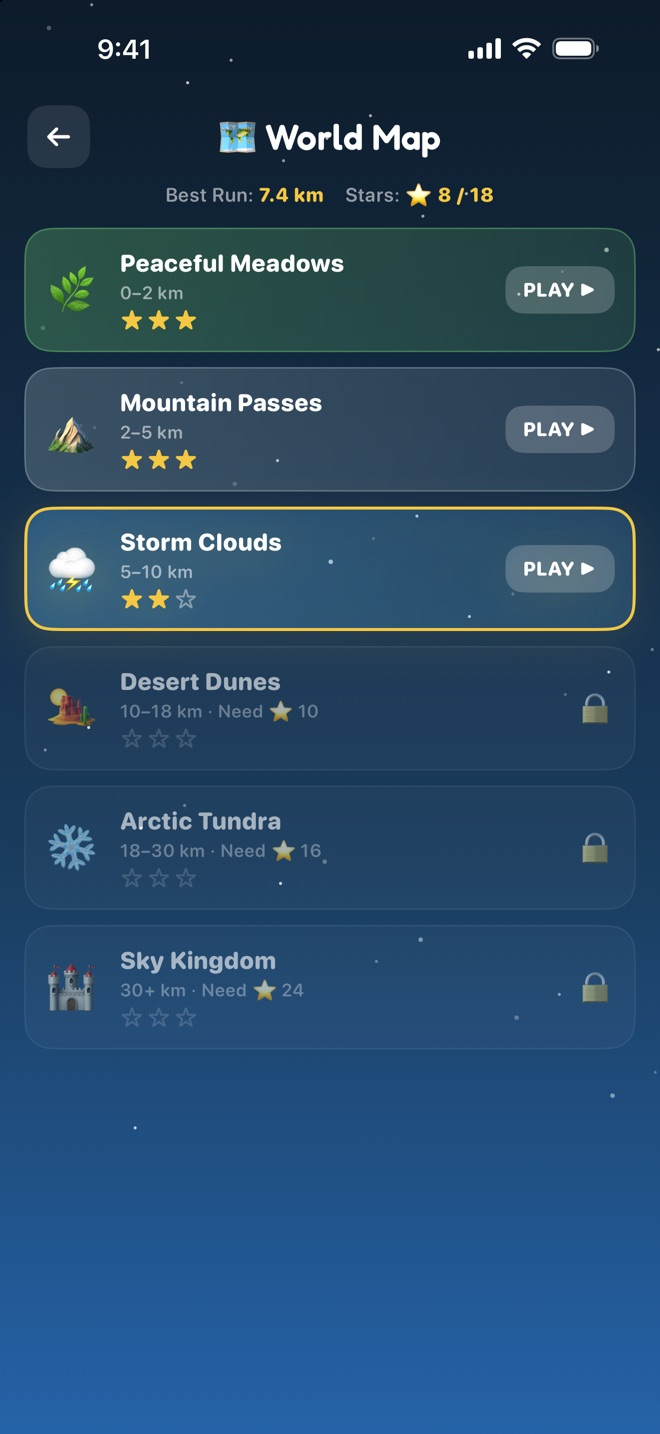
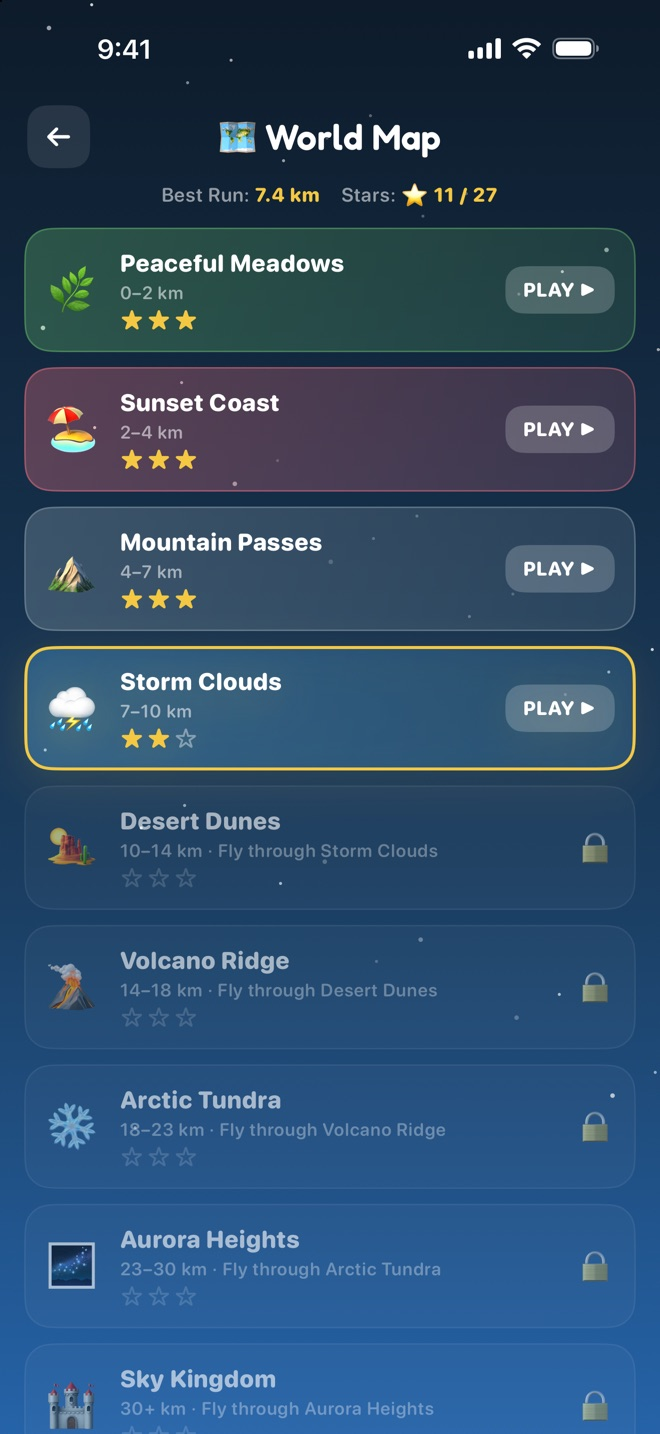
Sky Voyage iOS: nine biomes, Game Center, power-up timers
- Page copy, FAQ and changelog cover the three new biomes (Sunset Coast,
  Volcano Ridge, Aurora Heights), Game Center leaderboards and
  achievements, and power-up countdowns
- Privacy policy: the iPhone version now optionally uses Game Center
  (handled by Apple; nothing is sent when signed out)
- Fresh iPhone screenshots

diff --git a/src/content/apps/skyvoyage.md b/src/content/apps/skyvoyage.md
@@ -10,14 +10,14 @@ screenshots:
   - src: /apps/skyvoyage/screenshot-ios-1.jpg
     alt: "Main menu with your balloon ready for take-off"
   - src: /apps/skyvoyage/screenshot-ios-2.jpg
-    alt: "Steering through the Mountain Passes past birds and a wind turbine"
+    alt: "Steering past kites and seagulls on the Sunset Coast"
   - src: /apps/skyvoyage/screenshot-ios-3.jpg
-    alt: "Dodging lightning and hail in the Storm Clouds"
+    alt: "Dodging falling embers over Volcano Ridge"
   - src: /apps/skyvoyage/screenshot-ios-4.jpg
     alt: "Customising your balloon in the Hangar"
   - src: /apps/skyvoyage/screenshot-ios-5.jpg
-    alt: "World Map with stars earned in each zone"
-techStack: [Swift, SwiftUI, SwiftUI Canvas rendering, Kotlin (Android), Custom 2D engine]
+    alt: "World Map with all nine zones and the stars earned in each"
+techStack: [Swift, SwiftUI, SwiftUI Canvas rendering, GameKit (Game Center), Kotlin (Android), Custom 2D engine]
 supportEmail: hello@sagarchandagarwal.com
 faq:
   - q: "Is Sky Voyage free? Are there ads?"
@@ -25,11 +25,15 @@ faq:
   - q: "Is it on iPhone?"
     a: "Yes — Sky Voyage for iPhone is coming to the App Store soon. The Android version is in closed beta and isn't publicly available right now."
   - q: "Do I need an internet connection to play?"
-    a: "No. The whole game runs offline. On iPhone there's no sign-in and no network access at all. On Android, signing in with Google Play Games is optional and only powers leaderboards and cloud saves."
+    a: "No. The whole game runs offline. Game Center on iPhone and Google Play Games on Android are optional and only power leaderboards and achievements (plus cloud saves on Android)."
+  - q: "Are there leaderboards?"
+    a: "Yes. On iPhone, Sky Voyage uses Game Center: global leaderboards for farthest flight and high score, and 15 achievements. Open them from Ranks in the game."
   - q: "How do I steer the balloon?"
     a: "Drag anywhere on the screen and the balloon glides toward your finger. Drag up to fire the burner and climb, drag down to vent and drop, or let go to drift slowly down."
   - q: "Why does my fuel run out?"
     a: "Only the burner uses fuel — climbing and holding your height. Sliding sideways or down is free. Grab Fuel Tanks to refill; one always appears when you're running low."
+  - q: "How long do power-ups last?"
+    a: "Each active power-up shows a countdown ring above your fuel gauge: Shield 12 s (or until it blocks a hit), Coin Magnet 8 s, Speed Boost 5 s and 2× Score 15 s. The ring blinks in the last two seconds."
   - q: "What happens if I touch the ground?"
     a: "You get a moment to lift off. The screen glows red and warns you — drag up quickly to save the run."
   - q: "How big is the download?"
@@ -40,7 +44,9 @@ changelog:
     notes:
       - "First iPhone release, built natively in Swift and SwiftUI"
       - "Smooth, forgiving balloon physics: burner heat, fuel used only for climbing, gentle drift"
-      - "Six biomes from Peaceful Meadows to the Sky Kingdom, with a fade between zones"
+      - "Nine biomes, including the new Sunset Coast, Volcano Ridge and Aurora Heights"
+      - "Game Center leaderboards and 15 achievements"
+      - "Countdown timers for every active power-up"
       - "Hangar with envelopes, baskets, crew and flags; Shop boosts you can use mid-flight"
       - "Ranks screen with 12 achievements, levels and gem rewards"
   - version: "1.0.0 Android (closed beta)"
@@ -54,7 +60,7 @@ changelog:
 
 ## What it is
 
-Sky Voyage is a calm arcade endless flyer. Pilot a hot air balloon up through six biomes — meadows, mountain passes, storm clouds, desert dunes, arctic tundra and the Sky Kingdom — dodging birds, lightning, wind turbines and rival balloons while you watch your burner fuel.
+Sky Voyage is a calm arcade endless flyer. Pilot a hot air balloon up through nine biomes — meadows, the sunset coast, mountain passes, storm clouds, desert dunes, volcano ridge, arctic tundra, aurora heights and the Sky Kingdom — dodging birds, kites, lightning, embers and rival balloons while you watch your burner fuel. (The Android beta has six biomes.)
 
 It's built the old-school way, on hand-written 2D engines: native Swift and SwiftUI on iPhone, Kotlin on Android. Tiny downloads and zero ads, purchases or trackers. The iPhone version is coming soon to the App Store; the Android version is in closed beta and not publicly available right now.
 
@@ -62,6 +68,7 @@ It's built the old-school way, on hand-written 2D engines: native Swift and Swif
 
 1. **Fly.** Drag anywhere and the balloon glides toward your finger. Drag up to fire the burner and climb, drag down to vent, or let go to drift.
 2. **Mind the burner.** Only climbing burns fuel. Collect Fuel Tanks to keep going, and if the basket touches the ground you get a moment to lift off.
-3. **Survive the biomes.** Each zone brings new hazards — hail, nets, spike clouds, lightning — and its own wind. Earn stars to unlock zones on the World Map.
-4. **Grab power-ups.** Fuel Tanks, Shield Bubbles, Speed Boosts, Coin Magnets and 2× Score keep a good run alive, and the ⚡ button slows time when it gets tight.
-5. **Make it yours.** Spend the coins and gems you earn in the Hangar on envelopes, baskets, crew and flags — some with fuel or coin bonuses — and track your levels and achievements in Ranks.
+3. **Survive the biomes.** Each zone brings new hazards — kites, hail, nets, embers, ice crystals, lightning — and its own wind. Fly through a zone to unlock the next one as a starting point on the World Map.
+4. **Grab power-ups.** Fuel Tanks, Shield Bubbles, Speed Boosts, Coin Magnets and 2× Score keep a good run alive — each shows a countdown — and the ⚡ button slows time when it gets tight.
+5. **Make it yours.** Spend the coins and gems you earn in the Hangar on envelopes, baskets, crew and flags — some with fuel or coin bonuses.
+6. **Compete.** Track your levels and achievements in Ranks, and compare flights on Game Center leaderboards.

diff --git a/src/content/privacy/skyvoyage.md b/src/content/privacy/skyvoyage.md
@@ -17,7 +17,9 @@ Your player profile — pilot name, progress, coins, gems, unlocked cosmetics, z
 
 ## Sky Voyage for iPhone
 
-The iPhone version makes no network connections at all. It uses no third-party services or SDKs, does not use Game Center, and requests no permissions — no location, camera, contacts, photos, tracking or notifications. Haptic feedback can be turned off in Settings.
+The iPhone version uses no third-party services or SDKs and makes no network connections of its own. It requests no permissions — no location, camera, contacts, photos, tracking or notifications. Haptic feedback can be turned off in Settings.
+
+**Game Center (optional).** If you're signed in to Game Center on your device, Sky Voyage sends your best distance and score to Game Center leaderboards and records the achievements you unlock. This is handled by Apple under [Apple's Privacy Policy](https://www.apple.com/legal/privacy/); we do not receive or store your Game Center data. If you're not signed in, nothing is sent and the game works fully offline. You can manage Game Center in your device's Settings.
 
 ## Sky Voyage for Android
 
